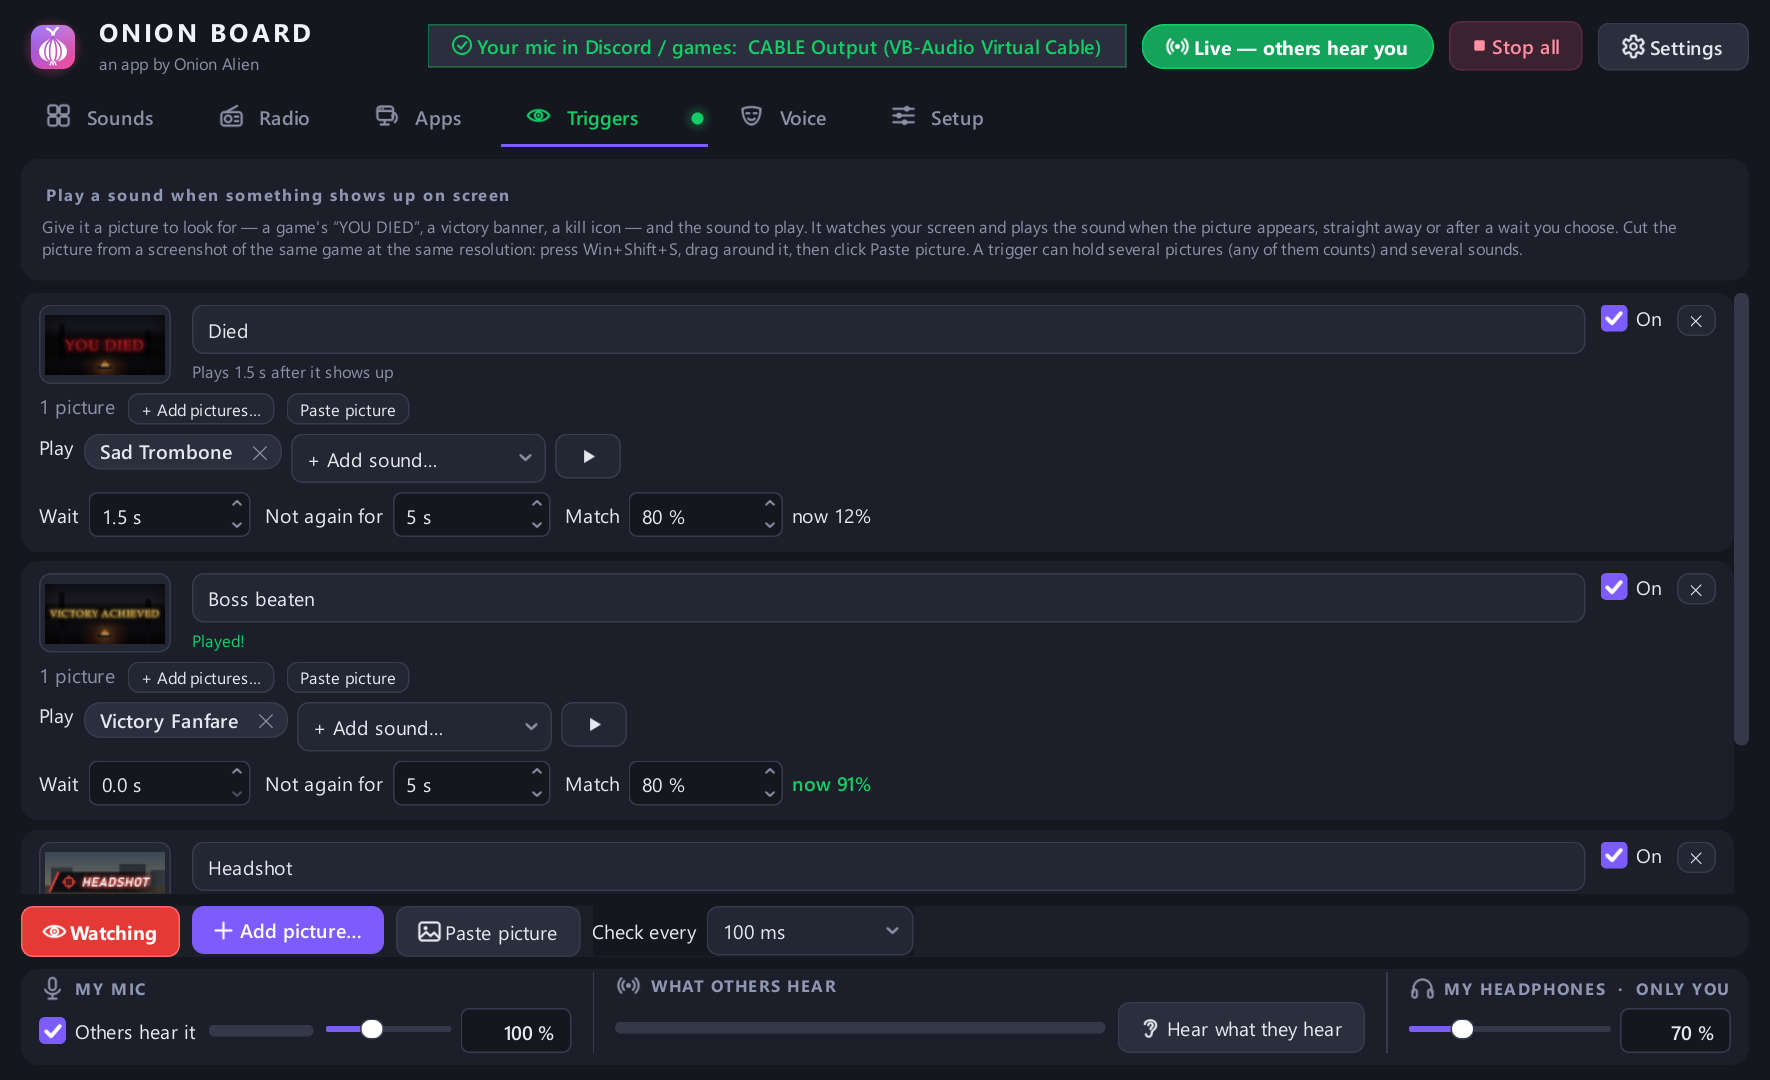
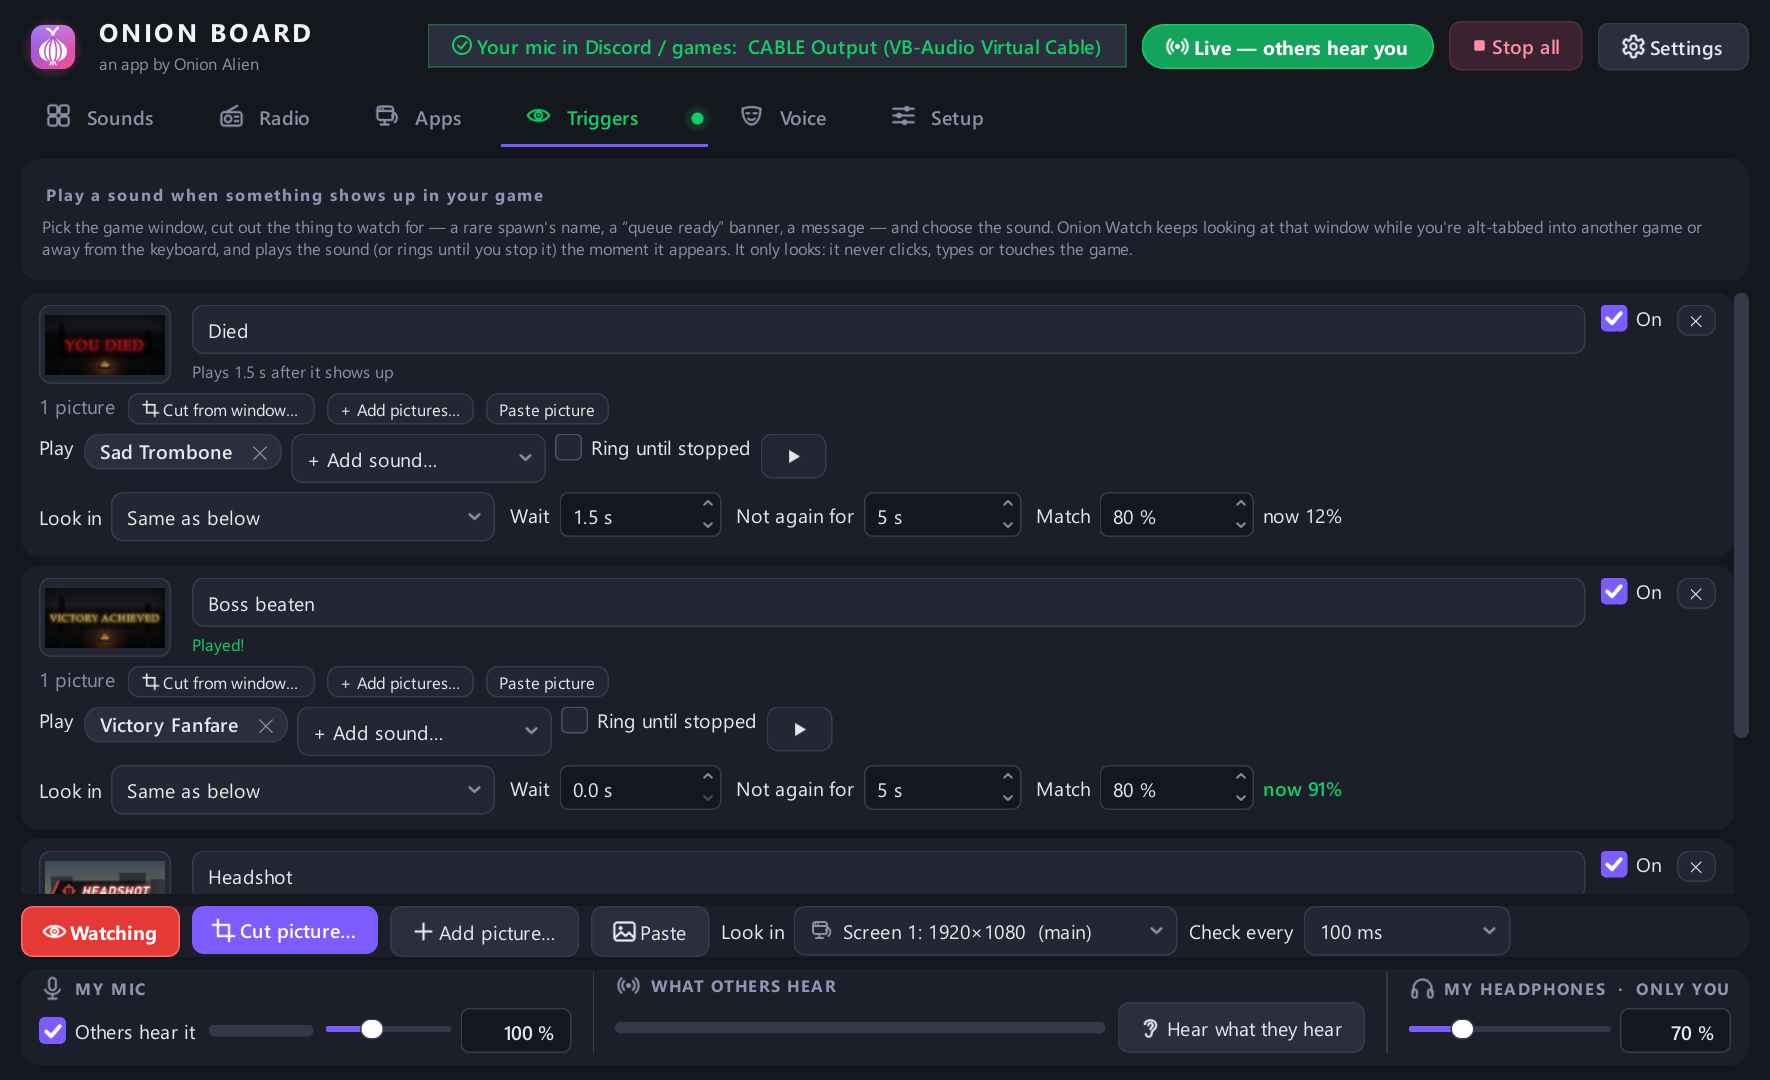
Website and Triggers screenshot: the Onion Watch add-on

diff --git a/docs/index.html b/docs/index.html
@@ -73,9 +73,10 @@
     <div class="card"><h3>MIDI pads<span class="new">NEW</span></h3><p>Hit a pad on an Akai LPD8,
       a Launchpad or any USB MIDI controller to play a sound, no extra software. Hold-to-play
       sounds stop when you let go; macro keypads work too.</p></div>
-    <div class="card"><h3>Screen triggers</h3><p>Pick a picture, like a
-      game's "YOU DIED", and a sound plays the moment it shows up. Give a trigger several pictures and several sounds
-      (random, in order or all at once), pick which screen it watches, and set a delay, a cooldown and how close the match must be.</p></div>
+    <div class="card"><h3>Screen triggers</h3><p>A sound the moment something shows up in your
+      game, like "YOU DIED", a rare spawn or a queue popping. It watches the game's own window, even behind other
+      windows, and can ring until you stop it. One click adds it: it's the free
+      <a href="https://github.com/Onion-Alien/onion-watch">Onion Watch</a> add-on.</p></div>
     <div class="card"><h3>Hotkeys and in-game overlay</h3><p>Global hotkeys work while you play. Press
       a key for a small panel of pads over your game, then a number to play one.</p></div>
     <div class="card"><h3>Voice changer and text-to-speech</h3><p>Robot, radio, echo, pitch and more
